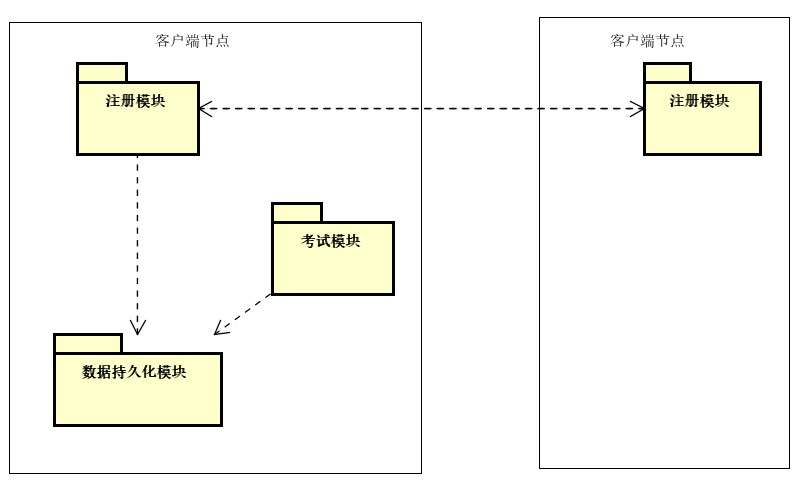
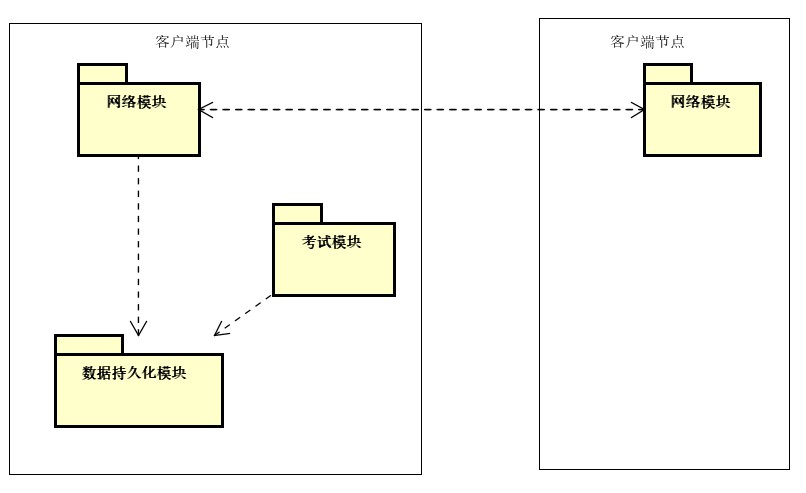
signup

diff --git a/project/p2p/qyc&jbs/qyc.md b/project/p2p/qyc&jbs/qyc.md
@@ -111,7 +111,7 @@
 ---
 ### 3.4.1 分解系统组件
 
-本迭代分解客户端节点的注册模块。
+本迭代分解客户端节点的网络模块。
 
 ### 3.4.2 确定架构驱动因素
 
@@ -278,12 +278,70 @@
 
 |#|架构驱动因素|重要性|难易度|
 |---|---|-|-|
-|||||
-|||||
-|||||
-|||||
-|||||
-|||||
+|1|场景1：大量用户短时间内进行数据量交换较小的操作|高|高|
+|2|约束1：用户的数据不得被泄露和非法修改|高|中|
+|3|功能需求1：课程签到|高|低|
+
+### 3.6.3 选择架构模式
+
+#### 3.6.3.1 设计关注点
+
+| 质量属性 | 设计关注点 | 子关注点  |
+| -------- | ---------- | --------- |
+|性能|高并发|密集网络请求|
+|安全性|数据安全|禁止非法修改<br>数据完整性|
+
+#### 3.6.3.2 候选模式
+
+**密集网络请求**
+
+|#|模式|实现难度|并发性能|
+|-|-|-|-|
+|1|同步请求|低|<60（取决于硬件和容器）|
+|2|集群+负载均衡|高|>10000（取决于硬件和容器）|
+|3|消息队列|中|>150（取决于硬件和容器）|
+
+选择模式：模式3
+
+理由：使用同步的方式处理请求将不能满足场景1要求的5s内处理300人的请求；集群+负载均衡的并发性能最好，但是实现难度较大，不经济；使用消息队列缓存用户请求，实现难度中等，并发能力也足以满足要求。
+
+**禁止非法修改**
+
+|#|模式|实现难度|安全性|性能开销|
+|-|-|-|-|-|
+|1|校验位|高|高|高|
+|2|限制数据库访问权限|低|中|无|
+
+选择模式：模式2
+
+理由：虽然使用数据校验位安全性很高，但其实现难度也高，并且会带来额外的性能开销；限制数据库访问权限提供的安全性已经可以满足要求了，因此选择它。
+
+**数据完整性**
+
+|#|模式|存储负载|处理器负载|
+|---|---|-|-|
+|1|检查点|1秒每半分钟|无|
+|2|检查点+变化日志|1秒每半分钟+每秒2条消息|无|
+|3|检查点+捆绑日志|1秒每半分钟+每x秒1条消息|无|
+|4|检查点+同步备份|1秒每半分钟+每x秒1条消息|每x秒同步一次主机和备份的状态|
+
+选择模式：模式3
+
+理由：检查点不能完全保证数据完整性，使用变化日志在高并发的场景下会产生大量的日志，对磁盘的IO能力是一个较大的挑战；同步备份在客户端节点稍显小题大做，故而选择检查点+捆绑日志。
+
+### 3.6.4 候选模式与对应ASR
+
+| #   | 模式类型 | 选择的模式 | 架构驱动 |
+| --- | -------- | ---------- | -------- |
+|1|密集网络请求|消息队列|场景1：大量用户短时间内进行数据量交换较小的操作<br>功能需求1：课程签到|
+|2|禁止非法修改|限制数据库访问权限|功能需求1：课程签到<br>约束1：用户的数据不得被泄露和非法修改|
+|3|数据完整性|检查点+捆绑日志|功能需求1：课程签到<br>约束1：用户的数据不得被泄露和非法修改|
+
+### 3.6.5 架构视图
+
+![signup c&c](https://github.com/viccrubs/ClassroomAssistant/blob/master/project/p2p/qyc&jbs/img/signup%20c%26c.jpg)
+
+![signup model](https://github.com/viccrubs/ClassroomAssistant/blob/master/project/p2p/qyc&jbs/img/signup%20model.jpg)
 
 ## 3.7 第七次迭代
 ---
@@ -301,3 +359,16 @@
 |||||
 |||||
 |||||
+
+### 3.7.3 选择架构模式
+
+#### 3.7.3.1 设计关注点
+
+#### 3.7.3.2 候选模式
+
+### 3.7.4 候选模式与对应ASR
+
+| #   | 模式类型 | 选择的模式 | 架构驱动 |
+| --- | -------- | ---------- | -------- |
+
+### 3.7.5 架构视图
